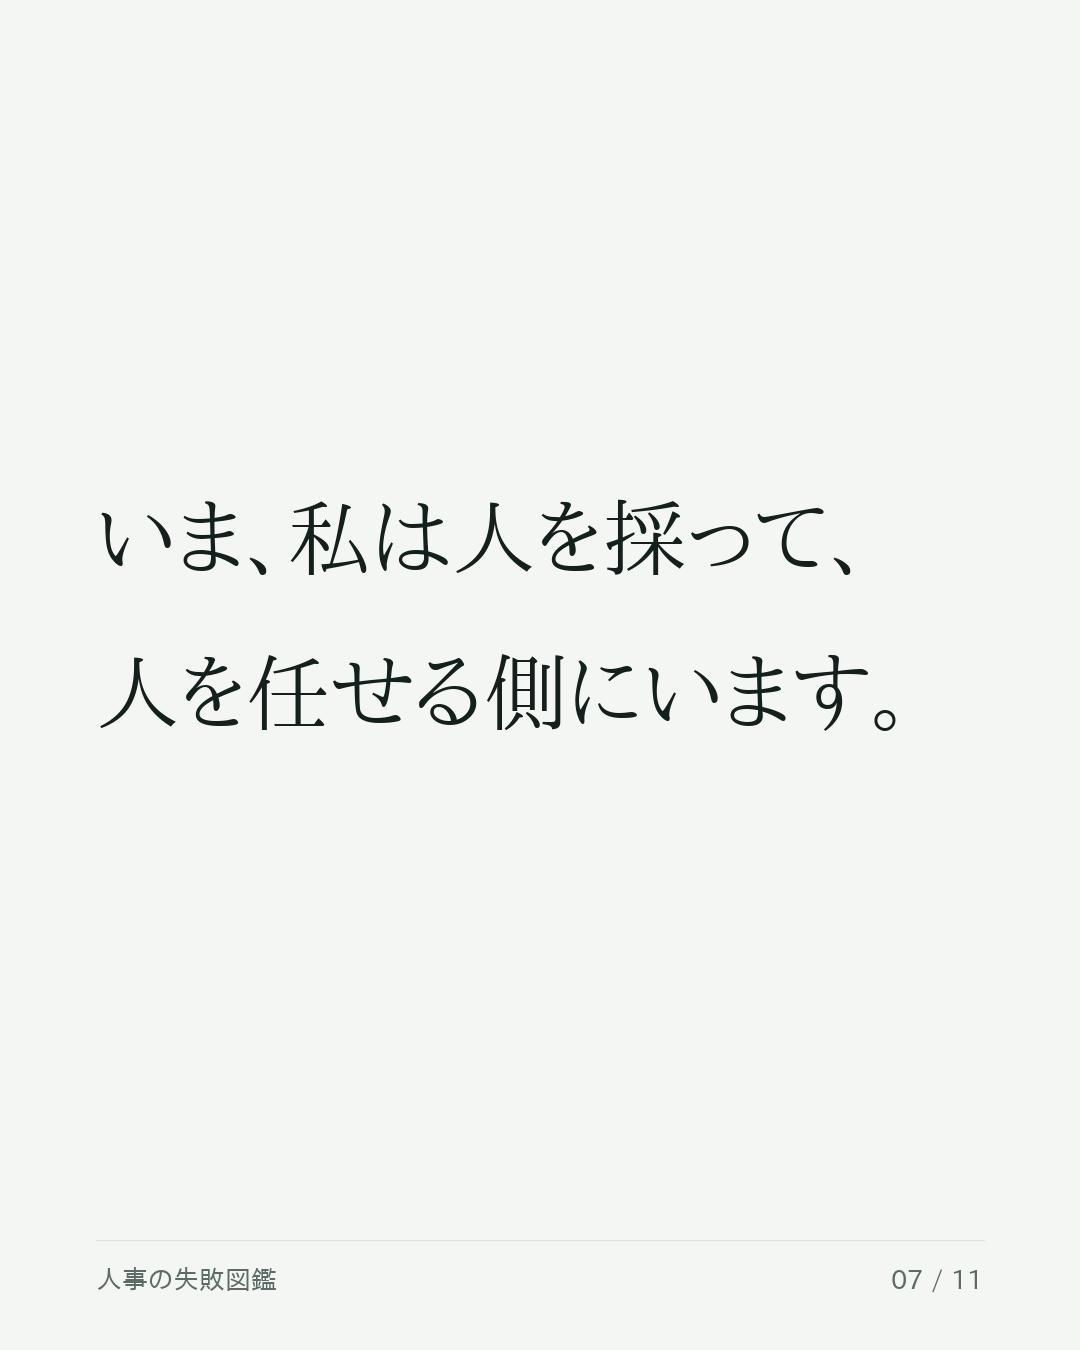
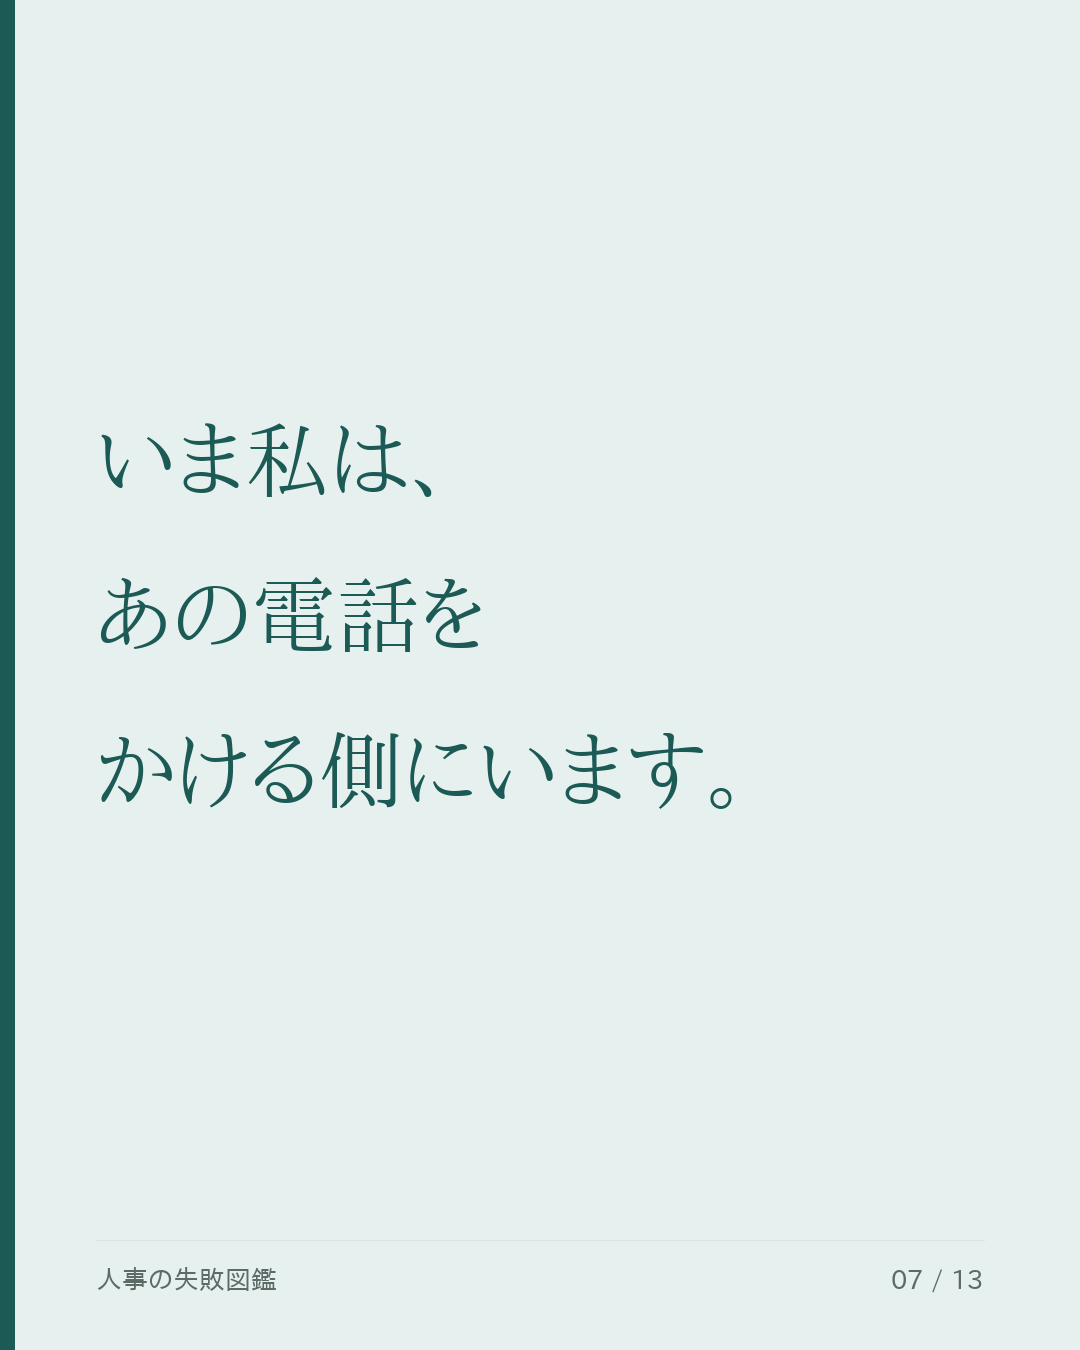
01(9/29)を ver.3 に書き直し：空いた穴の意味を本文で言い切り、実用パートを追加
- 「任せる前に確かめる3つ」を見出し付きで理由まで書いた
- 求職者向けに「頼まれたら聞き返す3つ」を追加
- 貼り付け用テキスト・整形メモ・カルーセル13枚・キャプションを作り直し

Claude-Session: https://claude.ai/code/session_01YGJ9eDg6KFptkrdWVW6DzJ

diff --git a/note/drafts/01-denwa.md b/note/drafts/01-denwa.md
@@ -1,12 +1,13 @@
-# コラム01 原案 ver.2（書き直し）
+# コラム01 原案 ver.3（読み手が持ち帰れる形に書き直し）
 
-> 約850字。**創作した事実はありません。**
+> 約1,400字。**新しく創作した出来事はありません。** ただし末尾の「判断が必要なこと」の 2・4 は三井さんの確認が要ります。
 >
-> **書き直した理由**：初稿は「駅のホームでかかってきた電話」の場面から始めていましたが、
-> その場面は第0回（9/1公開）と自己紹介記事にすでに書かれており、読者にとって3回目になっていました。
+> **ver.3 で変えたこと**（9/29、三井さんから「分かりにくい・参考にならない」と指摘を受けて）
+> - 「空いた穴」が何を指すのかを、本文の中で言い切るようにした（管理者がいないと事業所は動かない → だから私が置かれた）
+> - 「任せる前に確かめる3つ」を、見出し付きで1つずつ理由まで書いた
+> - 求職者向けに「頼まれたら、この3つを聞き返していい」を足した。**読者がその日から使える部分**
 >
-> そこで、**第0回に無い「空いた穴だった」を軸に**組み直しました。
-> 電話の場面は既知として1行で流し、「穴を埋められる側だった人間が、今は穴に人を置く側にいる」に絞っています。
+> ver.2 の方針（電話の場面は第0回で既出なので1行で流す）はそのまま。
 
 ---
 
@@ -16,46 +17,82 @@
 **原点編は、今日で最後です。**
 
 最初の記事に、電話一本で管理者になったと書きました。
+今日は、あの電話の裏側の話です。
 
-あの電話には、続きがあります。
+---
 
 私はもともと、訪問看護のスタッフとして入る予定でした。
-管理者をやる予定だった人が、急に辞退したんです。
+ところが、管理者になるはずだった人が、急に辞退しました。
 
-だから、あの電話がかかってきました。
+訪問看護ステーションは、管理者がいないと動きません。
+だから、スタッフとして入る予定だった24歳の私に、電話がかかってきました。
 
-つまり私は、**空いた穴**です。
+訪問看護も、管理者も、はじめてでした。
+それでも私は「やります」と答えました。
+
+誰かが抜けた場所を、とりあえず埋めるために置かれた人間。
+つまり私は、**空いた穴**でした。
 
 ---
 
 当時、そんなふうには考えていませんでした。
+翌日から仕事が始まって、目の前のことだけで手一杯だったからです。
 
-考える時間がなかったからです。「やります」と答えてしまったあと、翌日から仕事が始まって、目の前のことだけで手一杯になりました。
+あとになって振り返ると、あの電話で私が受け取ったのは「管理者」という肩書きだけでした。
 
-自分が何を埋めるために置かれたのかを考えたのは、ずいぶんあとになってからです。
+なぜ私なのか。
+周りにはどう伝わっているのか。
+困ったとき、誰に聞けばいいのか。
+
+どれも聞かされていませんでしたし、私も聞きませんでした。
 
 ---
 
 いま、私は人を採って、人を任せる側にいます。
 
-つまり、**あの電話をかける側に回りました。**
+**あの電話を、かける側に回りました。**
 
-穴が空いたとき、誰かに「やるか？」と聞く。その立場です。
+穴は、どの会社でも空きます。人が辞める。休む。立ち上げで人が足りない。
+そのたびに、誰かに「やってくれないか」と頼むことになります。
 
-だから、聞く前に自分に確かめるようにしています。
+だから頼む前に、次の3つを自分に確かめるようにしています。
 
-この人に任せる理由を、私は言葉にできるか。
-その理由を、本人にも、周りにも、説明できるか。
-うまくいかなかったときに支える手を、先に用意してあるか。
+## ① この人に任せる理由を、言葉にできるか
+
+「空いているから」「断らなそうだから」は、理由になりません。
+本人の何を見て任せるのかを、一文で言えるか。言えないなら、私は本人ではなく、穴の都合で選んでいます。
+
+## ② その理由を、本人と周りに説明できるか
+
+本人が理由を知らなければ、何を期待されているのか分かりません。
+周りが知らなければ、本人は「なぜあの人が」という空気の中で始めることになります。
+
+## ③ うまくいかなかったときの支えを、先に決めてあるか
+
+誰に相談すればいいのか。どこまでなら失敗していいのか。
+任せたあとに考えるのでは、遅いです。
 
 24歳の私には、そのどれもありませんでした。
 電話一本と、「やります」という返事だけでした。
 
 ---
 
-穴を埋めるために人を置くこと自体が悪いとは思っていません。
-会社が動いている以上、穴は空きます。私もそうやって始まりました。
+## もし、あなたが「やってくれないか」と頼まれたら
 
+この3つを、そのまま聞き返してください。
+
+「なぜ私なんですか」
+「周りには、どう伝えますか」
+「うまくいかなかったら、誰に相談すればいいですか」
+
+すぐに答えが返ってくる職場は、任せたあとのことまで考えています。
+返ってこなかったら、相手は穴を埋めることで頭がいっぱいになっています。引き受けるかどうかは、そこで決めても遅くありません。
+
+うちの面接でこれを聞かれても、嫌な顔はしません。
+
+---
+
+穴を埋めるために人を置くこと自体が、悪いとは思っていません。私もそうやって始まりました。
 問題は、**置いたあとに何を渡すか**です。
 
 そして正直に言うと、今もまだ、全部は渡せていません。
@@ -90,7 +127,8 @@
 
 ## 2. ここだけ、実際の記憶に差し替えてください
 
-> 考える時間がなかったからです。「やります」と答えてしまったあと、翌日から仕事が始まって、目の前のことだけで手一杯になりました。
+> 当時、そんなふうには考えていませんでした。
+> 翌日から仕事が始まって、目の前のことだけで手一杯だったからです。
 
 **「自分が穴だと、当時どう感じていたか」**を私は知りません。上は「考える暇もなかった」という前提で書いています。
 
@@ -104,3 +142,9 @@
 
 第0回の直後に出すと電話の話が続くので、**04（賞与の紙）のあとが自然です。**
 `launch-kit.md` のカレンダーを更新しました。
+
+## 4. ver.3 で足した3文の確認【公開前に必ず】
+
+- **「どれも聞かされていませんでしたし、私も聞きませんでした。」** 後半の「私も聞きませんでした」は、ver.2 の「電話一本と『やります』という返事だけでした」からの推測です。違っていたら「聞けませんでした」などに直してください。
+- **「うちの面接でこれを聞かれても、嫌な顔はしません。」** 会社としての約束になります。代表と、面接に出る人全員が守れるなら残す。守れないなら消してください。
+- **「管理者がいないと動きません」** は指定基準（常勤の管理者の配置）の話として書いています。

diff --git a/note/distribution.md b/note/distribution.md
@@ -489,50 +489,51 @@ X の運用で決めたルール（`swipe-file.md`）は、Instagram でも Thre
 `drafts/01-denwa.md` ／ 貼り付け用は `note-paste/01-denwa.txt`
 **ハッシュタグの5つ目は `#マネジメント`。**
 
-### Instagram（カルーセル11枚）
+### Instagram（カルーセル13枚）
 
-画像は `instagram/out/01/01〜11.png`。**2枚目が橋渡しスライドで、「原点編は、今日で最後です」が入っています。**
+画像は `instagram/out/01/01〜13.png`。**2枚目が橋渡しスライドで、「原点編は、今日で最後です」が入っています。**
+ver.3（9/29 書き直し）で、8〜10枚目に「任せる前に確かめる3つ」、11〜12枚目に「頼まれたら聞き返す3つ」を入れました。**保存されるのはこの5枚です。**
 
 **キャプション**
 
 ```
-ここまで4回、私が「任される側」だった頃の話を書いてきました。
-原点編は、今日で最後です。
-
-最初の記事に、電話一本で管理者になったと書きました。
-
-あの電話には、続きがあります。
-
 私はもともと、訪問看護のスタッフとして入る予定でした。
-管理者をやる予定だった人が、急に辞退したんです。
+管理者になるはずだった人が、急に辞退しました。
 
-だから、あの電話がかかってきました。
+管理者がいないと、訪問看護ステーションは動きません。
+だから、24歳の私に電話がかかってきました。
+訪問看護も、管理者も、はじめてでした。
 
-つまり私は、空いた穴です。
+つまり私は、空いた穴でした。
 
-当時、そんなふうには考えていませんでした。
-考える時間がなかったからです。
+あの電話で受け取ったのは「管理者」という肩書きだけ。
+なぜ私なのか。周りにはどう伝わっているのか。困ったとき、誰に聞けばいいのか。
+どれも聞かされず、私も聞きませんでした。
 
-自分が何を埋めるために置かれたのかを考えたのは、ずいぶんあとになってからです。
+いま私は、あの電話をかける側にいます。
+だから頼む前に、この3つを自分に確かめています。
 
-いま、私は人を採って、人を任せる側にいます。
-つまり、あの電話をかける側に回りました。
+① 任せる理由を、言葉にできるか
+「空いているから」は理由になりません。
 
-だから、聞く前に自分に確かめるようにしています。
+② その理由を、本人と周りに説明できるか
+周りが知らなければ、本人は「なぜあの人が」という空気の中で始めます。
 
-この人に任せる理由を、私は言葉にできるか。
-その理由を、本人にも、周りにも、説明できるか。
-うまくいかなかったときに支える手を、先に用意してあるか。
+③ うまくいかなかったときの支えを、先に決めてあるか
+誰に相談するのか。どこまで失敗していいのか。任せたあとでは遅いです。
 
-24歳の私には、そのどれもありませんでした。
-電話一本と、「やります」という返事だけでした。
+もし、あなたが「やってくれないか」と頼まれたら、そのまま聞き返してください。
+「なぜ私なんですか」
+「周りには、どう伝えますか」
+「うまくいかなかったら、誰に相談すればいいですか」
 
-穴を埋めるために人を置くこと自体が悪いとは思っていません。
-問題は、置いたあとに何を渡すかです。
+すぐに答えが返ってくる職場は、任せたあとのことまで考えています。
+うちの面接で聞かれても、嫌な顔はしません。
 
-そして正直に言うと、今もまだ、全部は渡せていません。
+正直に言うと、私も今もまだ、全部は渡せていません。
 
 全文はプロフィールのリンクから。
+あとで見返せるように、保存しておいてください。
 
 #訪問看護 #看護師 #人事 #採用 #マネジメント #組織づくり
 ```

diff --git a/note/launch-kit.md b/note/launch-kit.md
@@ -15,7 +15,7 @@
 | ~~9/8（火）~~ | ~~02 毎日、怒られていました~~ | 約740字 | **公開済み** |
 | ~~9/15（火）~~ | ~~03 なぜ、みんな私に聞きに来たのか~~ | 約1,150字 | **公開済み** |
 | ~~9/22（火）~~ | ~~04 引き出しの中の、賞与の紙~~ | 約840字 | **素材お渡し済み** |
-| **9/29（火）** | **01 私は、空いた穴でした** | 約730字 | **今日。原点編の最終回。**穴を埋められる側だった人間が、今は穴に人を置く側にいる |
+| **9/29（火）** | **01 私は、空いた穴でした** | 約1,200字（ver.3） | **今日。原点編の最終回。**穴を埋められる側だった人間が、今は穴に人を置く側にいる |
 | 10/6（火） | **実務回**（面接で必ず聞く3つの質問 など） | 約1,000字 | **「変えている会社」だと示す回。**まだ未執筆 |
 | 10/13（火） | 05 気づいたら、事業所が二つに割れていた | 約1,050字 | 溝は私が話さなかったから空いた |
 | 10/20（火） | 06 「なぜ出すんですか」と、私は最後まで聞かなかった | 約1,160字 | 代表コメントが主役 |
